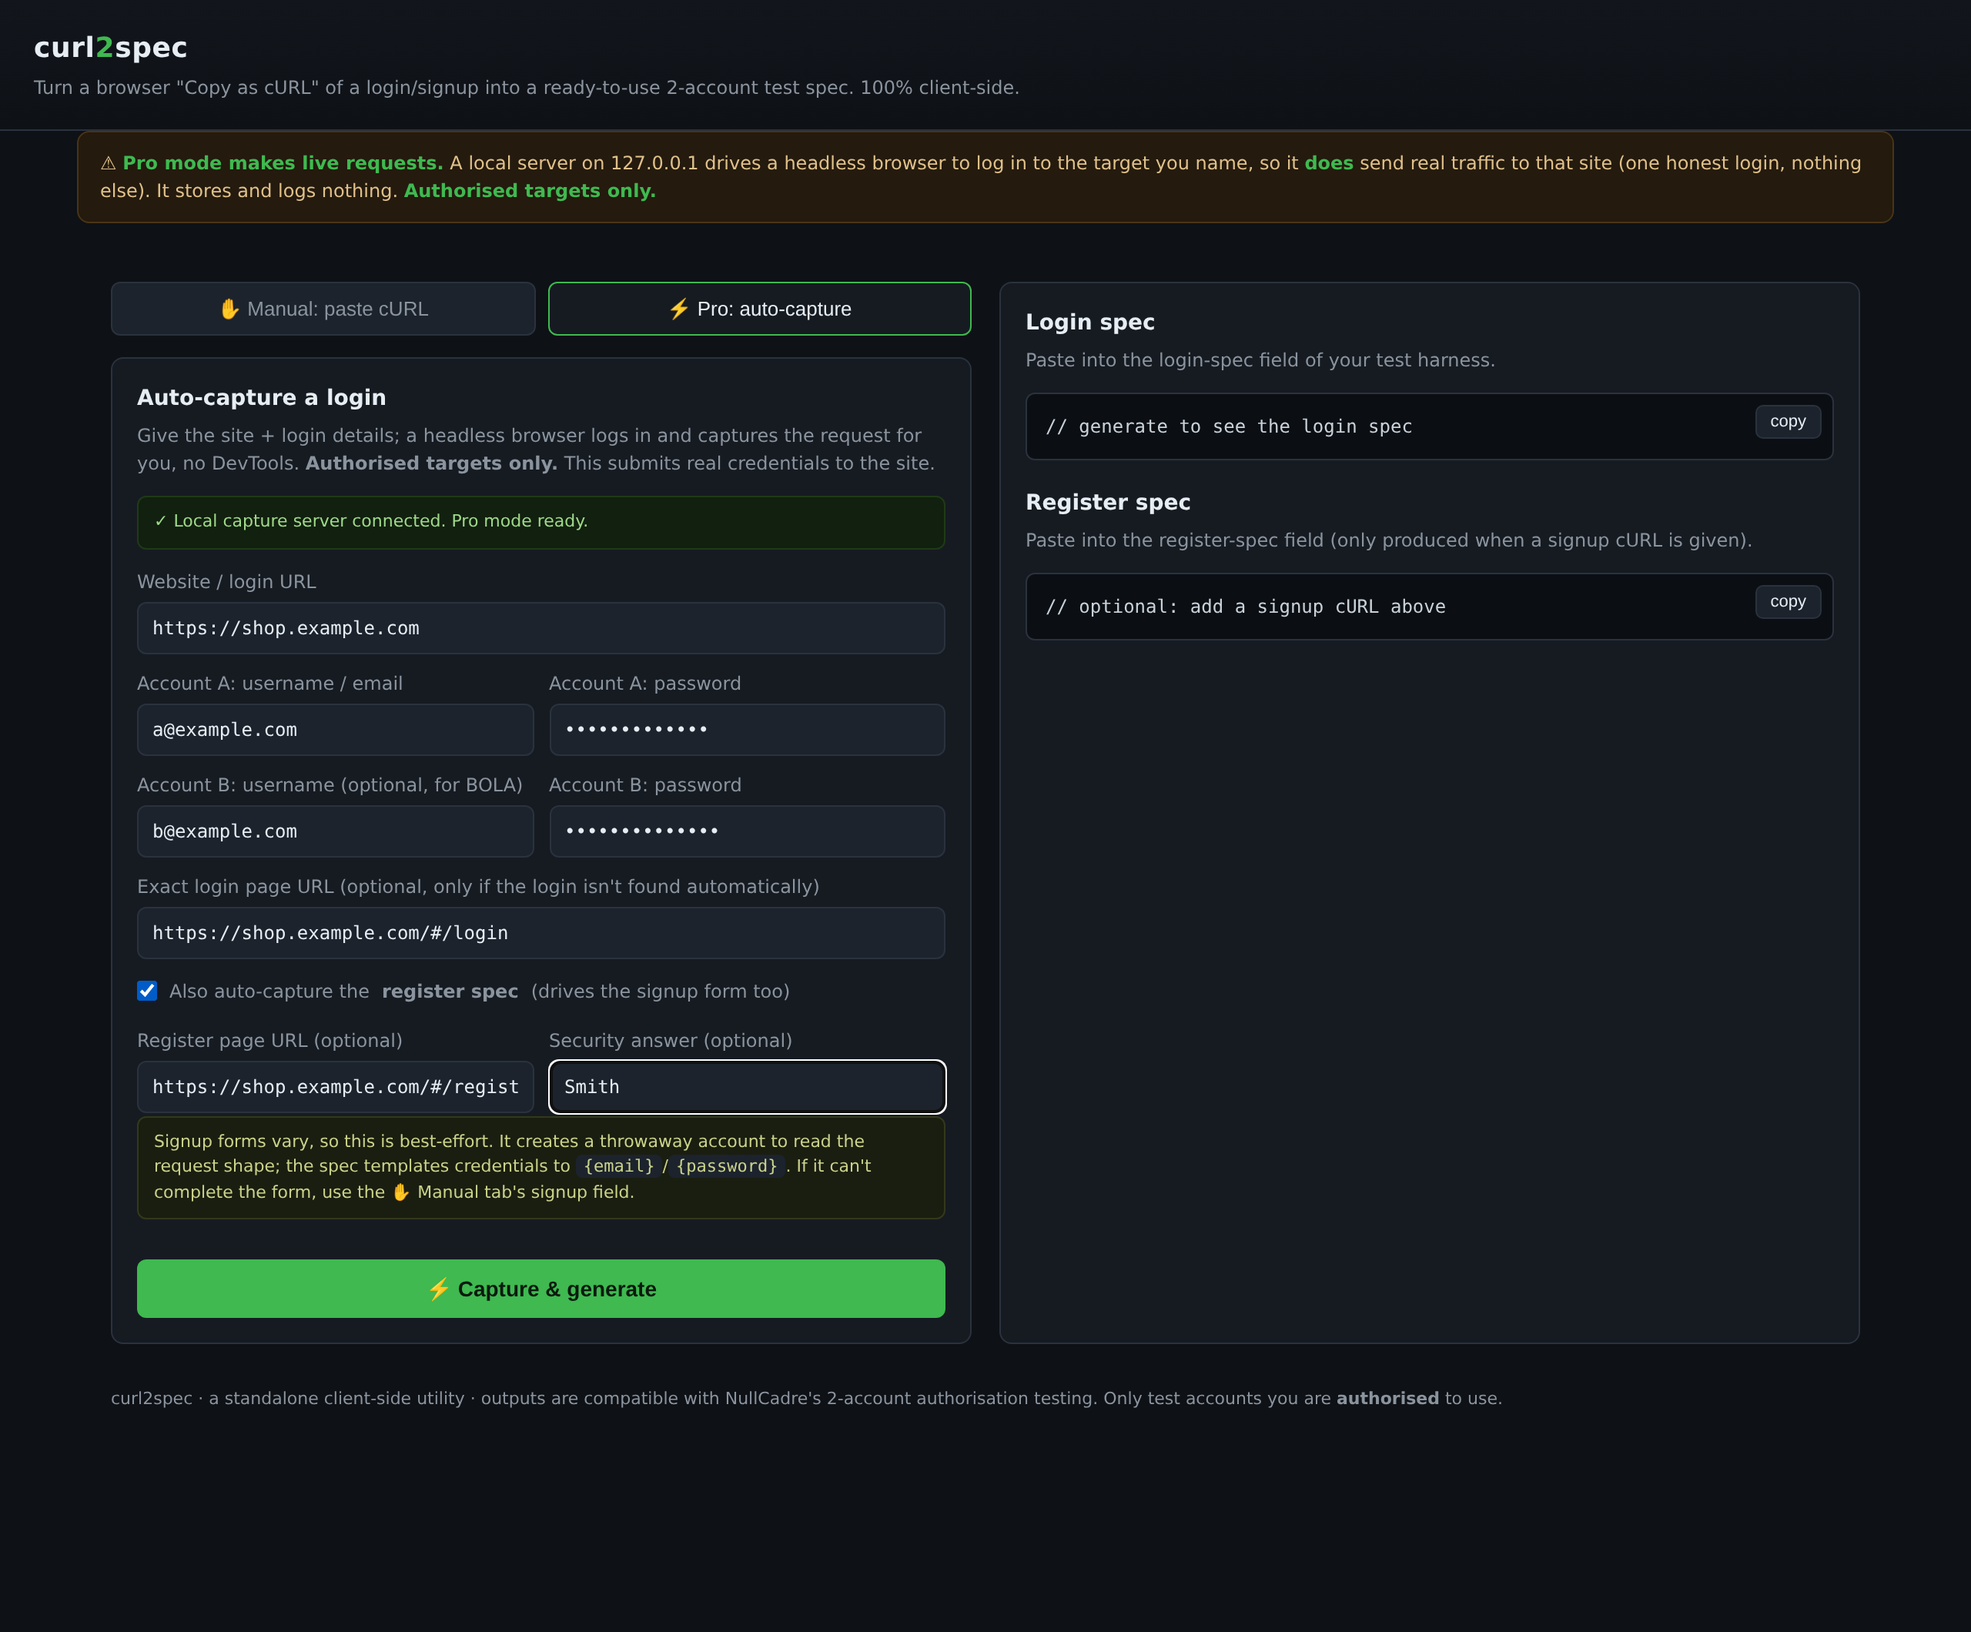
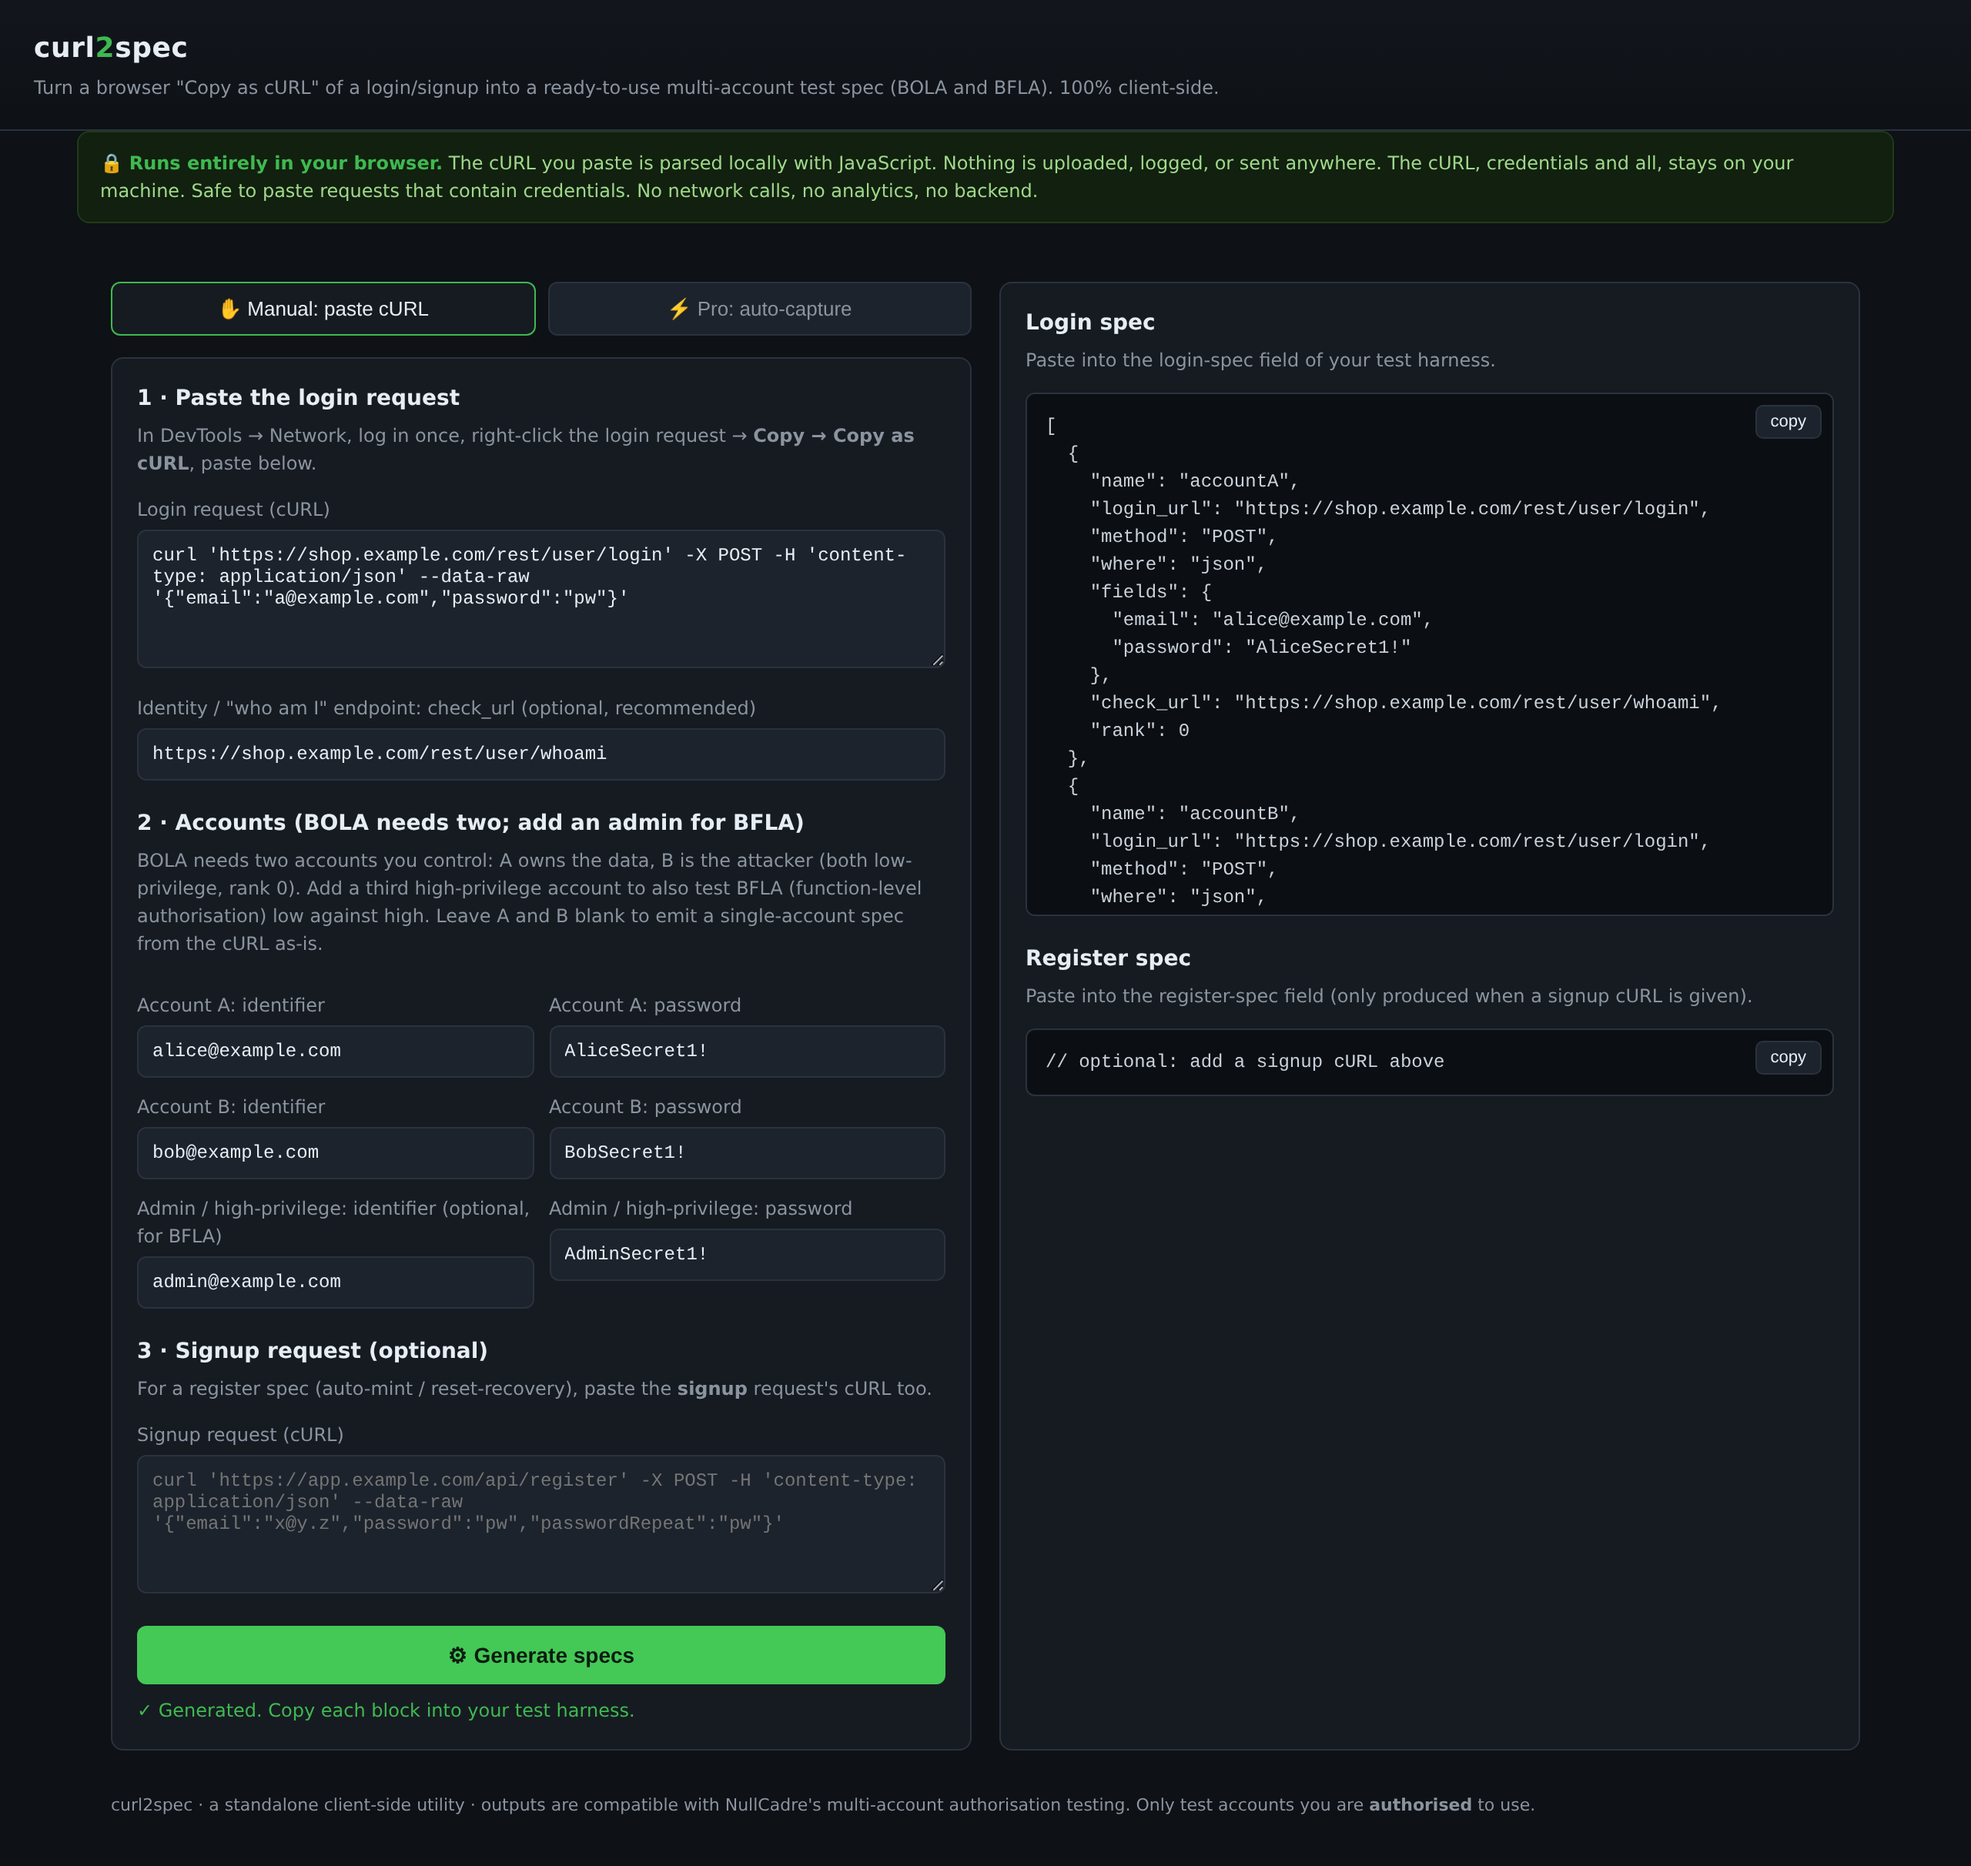
Docs: document the multi-account (BOLA + BFLA) capability and refresh the screenshot
Add a 'What it produces' capability list to the README (login spec, two-account
BOLA pair, optional admin rank-2 account for BFLA, register spec) and replace
the screenshot with one showing the three-account form and a generated spec
that includes the per-account rank.

diff --git a/README.md b/README.md
@@ -8,6 +8,17 @@ access control.
 It automates the fiddly, error-prone step of hand-writing that JSON: reading a login request to find its URL,
 whether the body is JSON or form-encoded, the exact field names, and the identity endpoint.
 
+## What it produces
+
+- **Login spec** from a single login request: URL, method, JSON-vs-form body, exact field names, static
+  auth/API-key headers, and the identity `check_url`.
+- **Two-account spec** for BOLA / IDOR: A owns the data, B is the attacker (both `rank: 0`).
+- **Optional admin account** for BFLA: a third `rank: 2` account, so a harness can drive one identity against
+  another (a low-privilege caller attempting a high-privilege function). Every account carries a `rank`.
+- **Register spec** from a signup request: auto-mints fresh accounts, credentials templated to
+  `{email}`/`{password}`, other required fields kept as-is.
+- Output is drop-in for a multi-account authorisation scan.
+
 ![curl2spec screenshot](screenshot.png)
 
 ## Two modes
